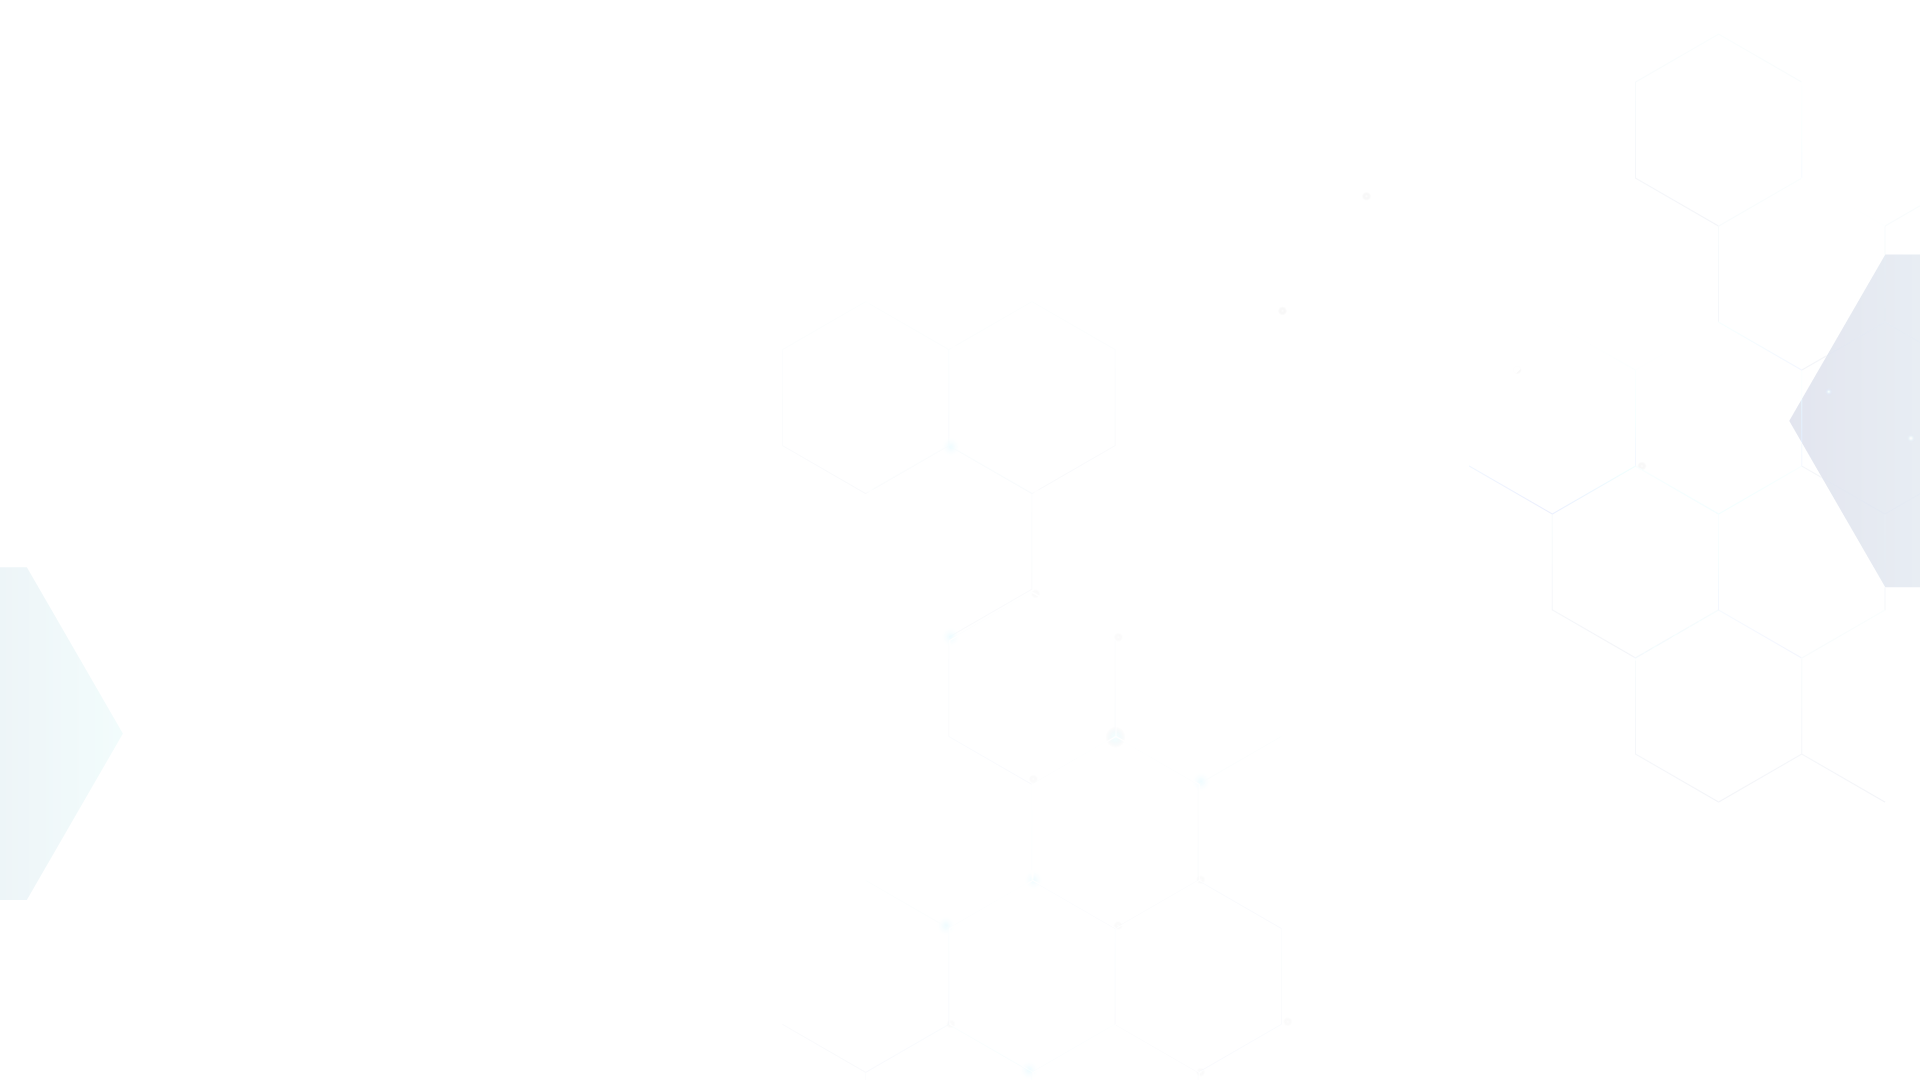
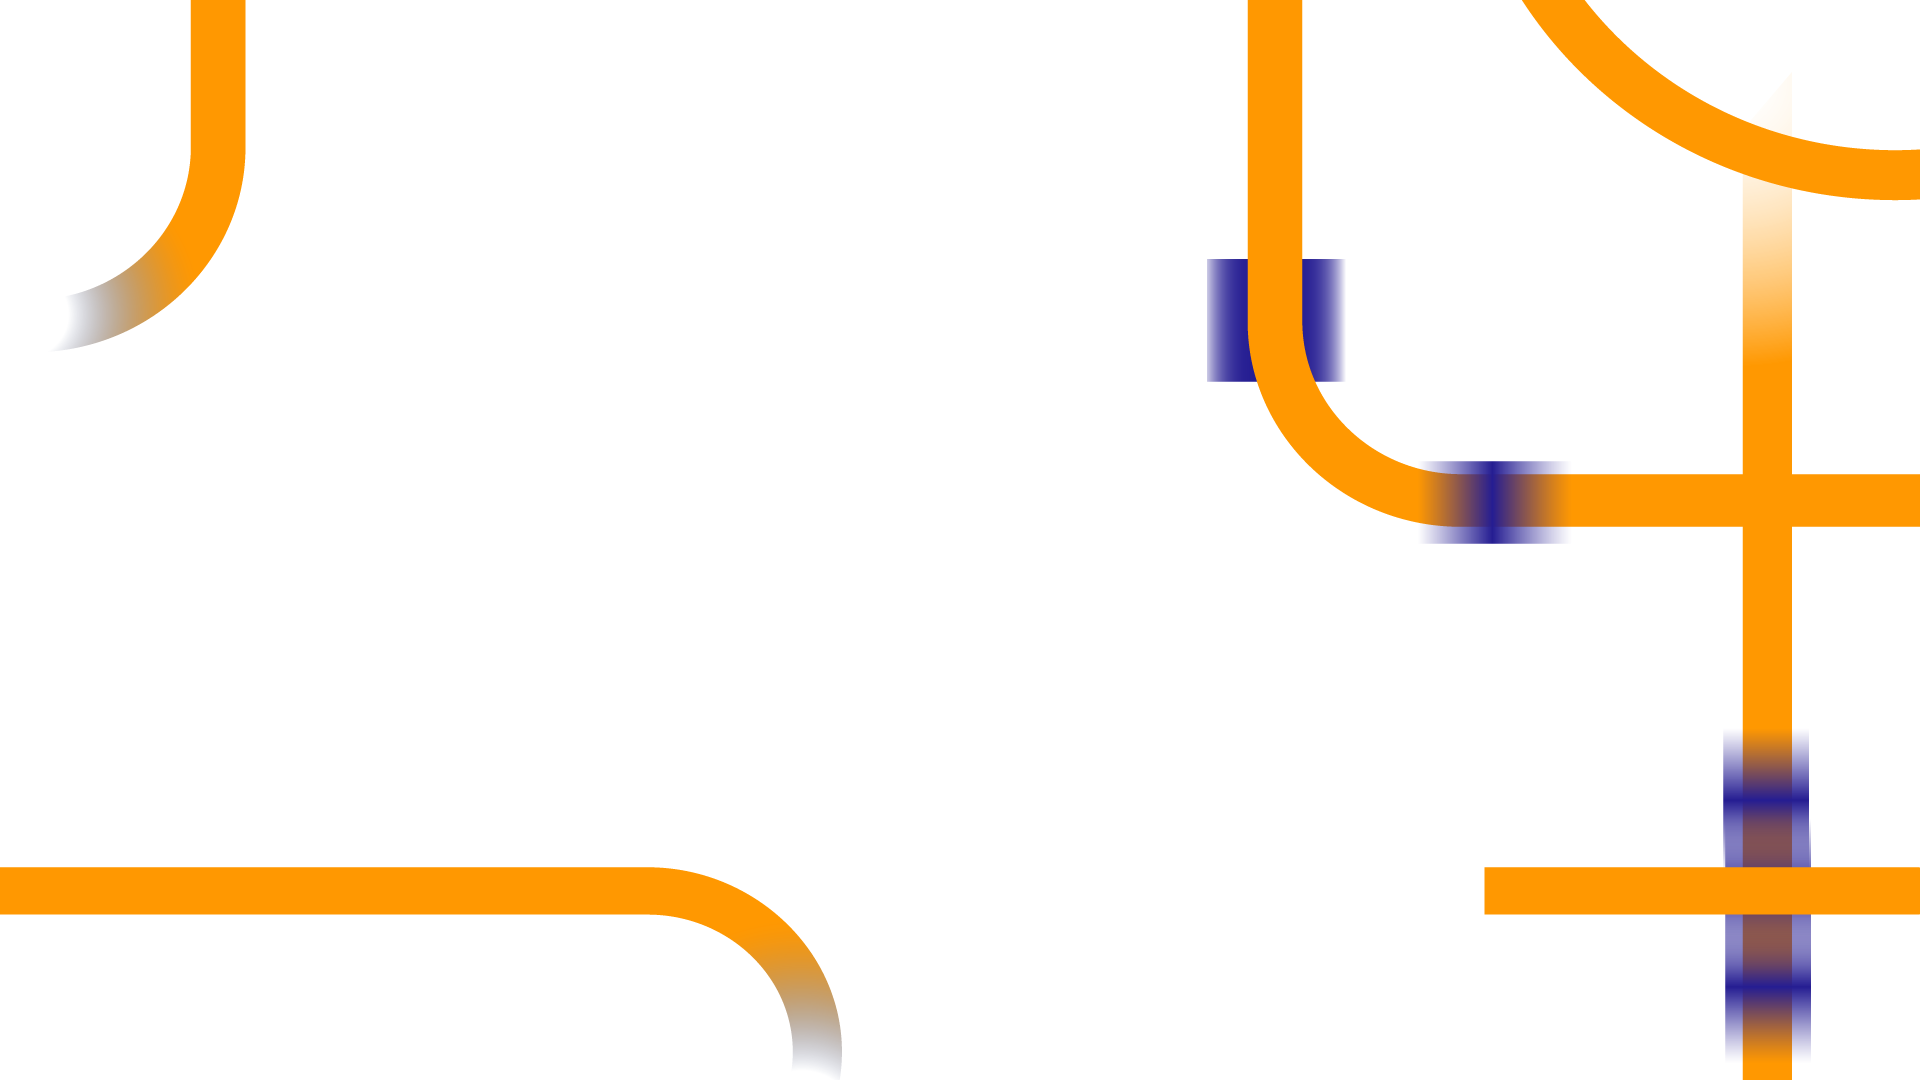
efeito no topo da home

Changed region(s): [[0.625, 0.0, 1.0, 1.0], [0.0, 0.7944, 0.4375, 1.0], [0.0312, 0.0, 0.125, 0.3361]]

diff --git a/assets/css/home.css b/assets/css/home.css
@@ -15,20 +15,37 @@ html {
 .section-hero {
 	position: relative;
 	z-index: 0;
-	background: #ffffff;
+
+	width: 100%;
+	height: 100vh;
+	background: #251d92;
+	overflow: hidden;
 }
 
-.section-hero,
 .layer-parallax {
-	height: 100vh;
+	background-position: bottom center;
+	background-size: cover;
+	background-repeat: no-repeat;
+	width: 100%;
+	position: absolute;
+
+	display: block;
+	height: 100%;
+	top: 0;
+	left: 0;
 }
+
+#layer-1 {
+	background-image: url(../../media/home/layer-1-mobile.png);
+}
+
 .hero-title {
 	background: transparent;
 	height: 100%;
 	align-items: center;
 	justify-content: start;
 	display: flex;
-	translate: 0 calc(50svh - 50%);
+	translate: 0 -10vh;
 }
 .hero-title .logo {
 	display: block;
@@ -64,51 +81,31 @@ html {
 	margin-bottom: 0;
 } */
 
-.layer-parallax {
-	background-position: bottom center;
-	background-size: cover;
-	background-repeat: repeat-x;
-	width: 100%;
-	position: absolute;
-}
-.layer-parallax.parallax {
-	position: fixed;
-}
-#layer-1 {
-	background-image: url(../../media/home/layer-1-mobile.png);
-}
-#layer-2 {
-	background-image: url(../../media/home/layer-2.png);
-}
-#layer-3 {
-	background-image: url(../../media/home/layer-3.png);
-}
-#layer-4 {
-	background-image: url(../../media/home/layer-4.png);
-	background-repeat: no-repeat;
-}
-
-@media (min-width: 768px) {
-	.hero-title h1 .label {
-		font-size: var(--fio-sys-typography-label-lg-size);
-	}
-	.hero-title h1 {
-		font-size: var(--fio-sys-typography-head-xxl-size);
-	}
-	.hero-title h1 span {
-		font-size: var(--fio-sys-typography-head-lg-size);
-	}
-}
-
 @media (min-width: 992px) {
 	.hero-title h1 .label {
-		font-size: var(--fio-sys-typography-label-lg-size);
+		font-size: var(--fio-sys-typography-size-6);
 	}
 	.hero-title h1 {
-		font-size: var(--fio-sys-typography-head-xxl-size);
+		font-size: var(--fio-sys-typography-size-6);
 	}
 	.hero-title h1 span {
-		font-size: var(--fio-sys-typography-head-lg-size);
+		font-size: var(--fio-sys-typography-size-6);
+	}
+	#layer-1 {
+		background-image: url(../../media/home/layer-1.png);
+		scale: 1.025;
+	}
+	#layer-2 {
+		background-image: url(../../media/home/layer-2.png);
+		scale: 1.025;
+	}
+	#layer-3 {
+		background-image: url(../../media/home/layer-3.png);
+		scale: 1.025;
+	}
+	#layer-4 {
+		background-image: url(../../media/home/layer-4.png);
+		scale: 1.025;
 	}
 }
 

diff --git a/assets/js/home.js b/assets/js/home.js
@@ -14,3 +14,36 @@ window.addEventListener('scroll', function (event) {
 		layer.setAttribute('style', 'transform: translate3d(0px, ' + yPos + 'px, 0px)');
 	}
 });
+
+// MOUSE TRACK
+document.addEventListener('DOMContentLoaded', function () {
+	// Select all elements with the class 'parallax-track'
+	var moveables = document.querySelectorAll('.parallax-track');
+
+	// Get the initial position of each '.parallax-track' element
+	var initialPositions = Array.from(moveables).map(moveable => ({
+		element: moveable,
+		rectPosY: parseInt(window.getComputedStyle(moveable).top, 10),
+		rectPosX: parseInt(window.getComputedStyle(moveable).left, 10),
+	}));
+
+	// Add mousemove event listener to the '.section-hero' element
+	document.querySelector('.section-hero').addEventListener('mousemove', function (e) {
+		// Calculate the center of the viewport
+		var viewportCenterX = window.innerWidth / 2;
+		var viewportCenterY = window.innerHeight / 2;
+
+		// Calculate the mouse position relative to the viewport center
+		var mouseX = e.pageX - viewportCenterX;
+		var mouseY = e.pageY - viewportCenterY;
+
+		initialPositions.forEach(({ element, rectPosY, rectPosX }) => {
+			var elementSpeed = element.getAttribute('data-speed');
+			elementSpeed = elementSpeed ? parseFloat(elementSpeed) : 1; // Default to 1 if no data-speed attribute
+
+			// Adjust element position based on mouse movement relative to viewport center
+			element.style.top = rectPosY - mouseY / elementSpeed + 'px';
+			element.style.left = rectPosX - mouseX / elementSpeed + 'px';
+		});
+	});
+});

diff --git a/index.html b/index.html
@@ -78,15 +78,15 @@
 
 	<body>
 		<div class="section-hero">
-			<div id="layer-1" class="layer-parallax parallax" data-speed=".01"></div>
-			<!-- <div id="layer-2" class="layer-parallax parallax" data-speed=".025"></div>
-			<div id="layer-3" class="layer-parallax parallax" data-speed=".03"></div>
-			<div id="layer-4" class="layer-parallax parallax" data-speed=".05"></div> -->
-			<div id="layer-5" class="layer-parallax parallax" data-speed="0">
+			<div id="layer-1" class="layer-parallax parallax-track" data-speed="30"></div>
+			<div id="layer-2" class="layer-parallax parallax-track" data-speed="40"></div>
+			<div id="layer-3" class="layer-parallax parallax-track" data-speed="50"></div>
+			<div id="layer-4" class="layer-parallax parallax-track" data-speed="60"></div>
+			<div id="layer-5" class="layer-parallax parallax-track" data-speed="0">
 				<div class="hero-title">
-					<div class="container">
-						<div class="row justify-content-center align-items-center">
-							<div class="col-11 col-md-10 col-lg-6">
+					<div class="container-fluid">
+						<div class="row justify-content-center justify-content-lg-start align-items-center">
+							<div class="col-11 col-md-10 col-lg-4 offset-lg-1">
 								<img class="logo" src="media/logos/fiocruz-campus-virtual-light.png" alt="Marca do Campus Virtual Fiocruz" />
 								<span class="label">Curso</span>
 								<h1>Ética e Integridade na Pesquisa</h1>
